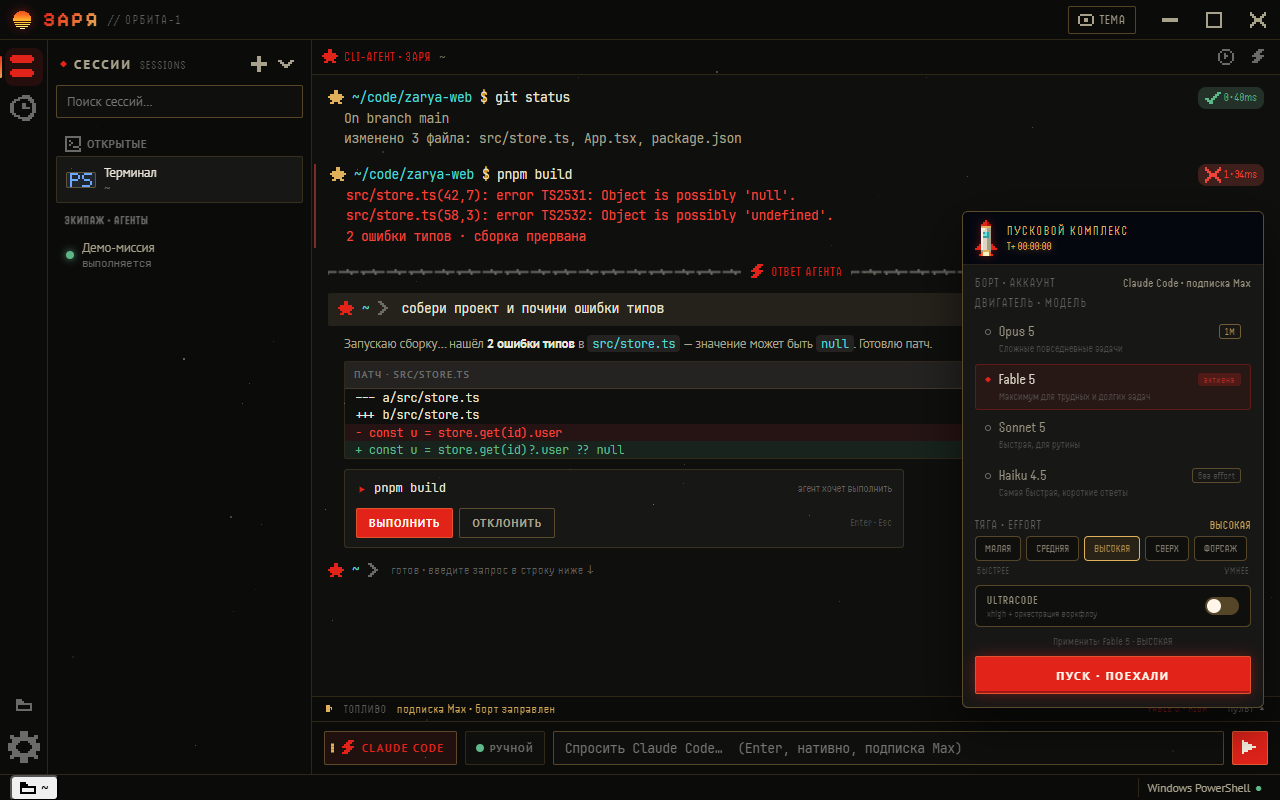
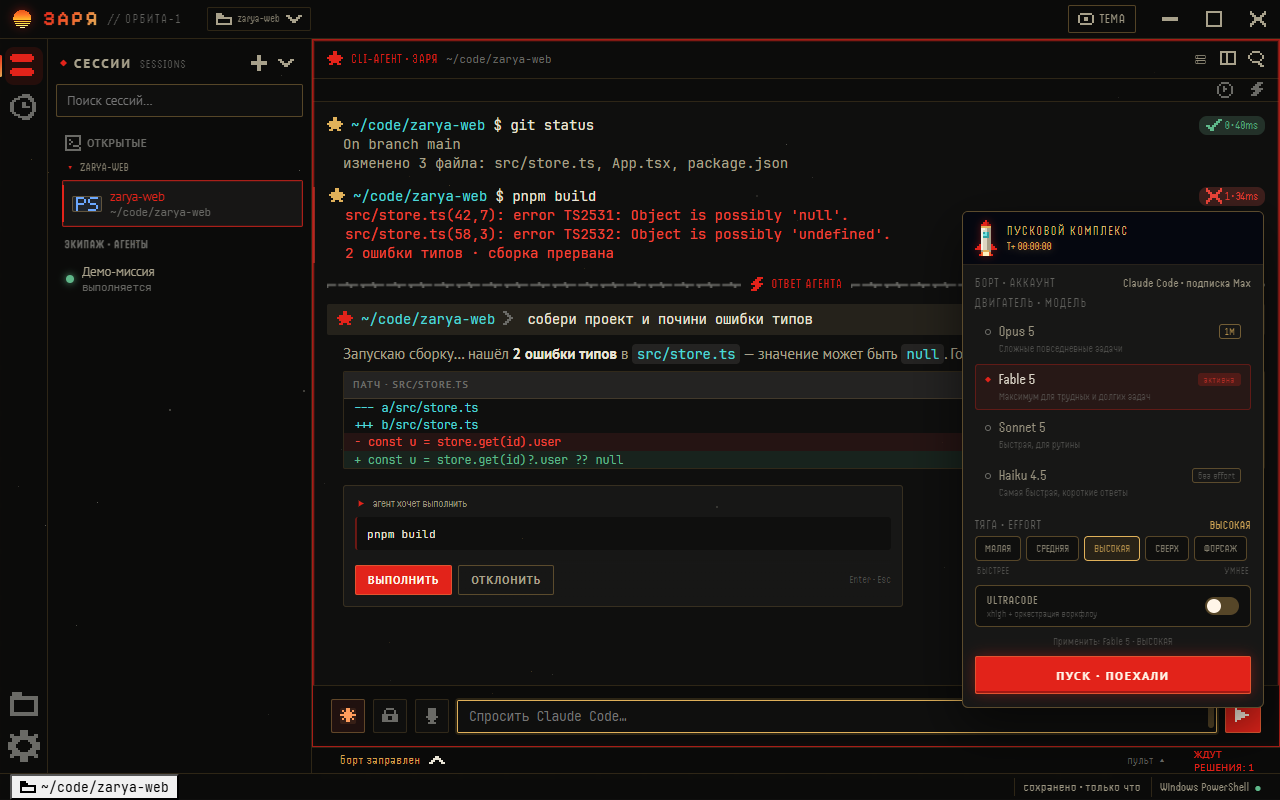
docs: README про панели — с кадром и без чужих путей
Панели — самое крупное изменение с тех пор, как README писался, а в нём о них
было ровно два слова: «splits & tabs» в разделе «прочее». Теперь есть раздел с
кадром: рабочий стол против панели, потолок в четыре, что именно у панели своё,
почему рамка не врёт, как перенести панель к нужному ребру и как вынести её в
свой стол, не убивая процесс. Отдельно появился раздел про картинки — их тоже
не было.

Снимки пересняты. Заодно закрыта утечка: в шапке панели и в кнопке проекта на
кадре стояла настоящая домашняя папка того, кто снимал, — теперь скрипт
подписывает панели нейтрально (`~/code/zarya-web`), и путь в блоке больше не
спорит с путём в шапке.

Версия в бейдже — 0.6.5 «Площадка».

Claude-Session: https://claude.ai/code/session_013NWvkSFpPF1BHK9w2ze8Ws

diff --git a/src/renderer/src/state/sessionsStore.ts b/src/renderer/src/state/sessionsStore.ts
@@ -927,6 +927,20 @@ export const useSessionsStore = create<SessionsState>((set, get) => {
 ).__zaryaMovePane = (sid, target) => useSessionsStore.getState().movePaneNextTo(sid, target)
 ;(window as unknown as { __zaryaCloseSession?: (sid: string) => Promise<void> }).__zaryaCloseSession = (sid) =>
   useSessionsStore.getState().closeSession(sid, { save: false })
+/**
+ * Снимкам для README: подписать панель нейтрально. В документации не должно
+ * быть ни чужих папок, ни личных путей — а настоящие берутся из настоящей
+ * файловой системы, какая есть на машине.
+ */
+;(
+  window as unknown as { __zaryaRenameForShot?: (sid: string, title: string, cwd: string) => void }
+).__zaryaRenameForShot = (sid, title, cwd) => {
+  useSessionsStore.setState((s) => {
+    const cur = s.sessions[sid]
+    if (!cur) return {}
+    return { sessions: { ...s.sessions, [sid]: { ...cur, title, customTitle: true, cwd } } }
+  })
+}
 
 async function restoreWorkspace(
   ws: WorkspaceState,

diff --git a/src/renderer/src/state/blocksStore.ts b/src/renderer/src/state/blocksStore.ts
@@ -1,4 +1,5 @@
 import { create } from 'zustand'
+import { useSessionsStore } from './sessionsStore'
 import type { BlockRecord } from '@shared/types'
 
 const MAX_BLOCKS_PER_SESSION = 500
@@ -72,11 +73,15 @@ export const useBlocksStore = create<BlocksState>((set, get) => ({
   }
 ).__zaryaSeedBlocks = (sessionId, count, lines) => {
   const now = Date.now()
+  // Папка — та же, что у самой панели: в снимках для README путь в блоке не
+  // должен спорить с путём в шапке.
+  const cwd = useSessionsStore.getState().sessions[sessionId]?.cwd || '~/code/project'
+  const CMDS = ['npm run build', 'git status', 'npm test -- --watch=false', 'git log --oneline -5']
   const list: BlockRecord[] = Array.from({ length: count }, (_, i) => ({
     id: `seed-${sessionId}-${i}`,
     sessionId,
-    command: `npm run build -- --seed ${i}`,
-    cwd: 'C:/Users/pesto/Desktop/project',
+    command: CMDS[i % CMDS.length],
+    cwd,
     startedAt: now - (count - i) * 1000,
     endedAt: now - (count - i) * 1000 + 400,
     exitCode: i % 7 === 0 ? 1 : 0,

diff --git a/README.md b/README.md
@@ -5,15 +5,17 @@
 **Космический CLI-агент. A new dawn for your terminal.**
 
 [![License: MIT](https://img.shields.io/badge/license-MIT-e2231a.svg)](LICENSE)
-[![Version](https://img.shields.io/badge/version-0.5.7%20%C2%AB%D0%A1%D0%BB%D0%BE%D0%B2%D0%BE%C2%BB-e0b15a.svg)](CHANGELOG.md)
+[![Version](https://img.shields.io/badge/version-0.6.5%20%C2%AB%D0%9F%D0%BB%D0%BE%D1%89%D0%B0%D0%B4%D0%BA%D0%B0%C2%BB-e0b15a.svg)](CHANGELOG.md)
 [![Electron](https://img.shields.io/badge/Electron-43-4fd6d6.svg)](https://www.electronjs.org/)
 [![Platform](https://img.shields.io/badge/platform-Windows%20%7C%20macOS%20%7C%20Linux-5fb88a.svg)](#install)
 [![PRs Welcome](https://img.shields.io/badge/PRs-welcome-e0b15a.svg)](CONTRIBUTING.md)
 
 Zarya is an AI-native terminal with a Soviet space-age soul. It runs **Claude Code
 natively** — the full agent, its tools and its permission prompts, driven straight
-from your terminal — alongside Warp-style command blocks, persistent sessions, and an
-optional built-in editor. 100% on your machine, no account, no telemetry.
+from your terminal — and gives every **pane its own agent**, so four CLIs can work
+side by side without ever sharing a conversation. Warp-style command blocks,
+persistent sessions and an optional built-in editor come along. 100% on your machine,
+no account, no telemetry.
 
 ![Zarya](docs/img/hero.png)
 
@@ -26,6 +28,12 @@ optional built-in editor. 100% on your machine, no account, no telemetry.
   approve/deny, the `AskUserQuestion` choice widget, session **resume**, and a live
   **fuel gauge** of your subscription limits — signed in with your **Max plan, no API
   key**.
+- **▦ Panes are whole CLIs** — split the window and each pane keeps its own feed, its
+  own input line, its own mode and its own autopilot. One Enter approves a tool in the
+  **framed** pane and nowhere else. The sidebar lists the panes of the active desk, so
+  you can point at one with the mouse; drag a pane by its header to move it next to
+  another (the edge you aim at lights up) or into the list to give it a desk of its own —
+  without killing the process.
 - **🚀 Пусковой комплекс** — a cosmic launch console for picking the model and
   reasoning effort, with every current Claude version, live-switchable mid-session.
 - **🎙 Диктовка — offline speech-to-text** — hold `Ctrl+Shift+Space`, speak, and the
@@ -67,6 +75,27 @@ Prefer to bring your own key? Zarya also has a **built-in provider agent** that 
 **Anthropic**, **OpenAI**, **Ollama** (local inference, incl. a remote Ollama box on your
 LAN or Tailscale) or any **OpenAI-compatible** endpoint — keys encrypted at rest, never
 sent anywhere but the provider you configured.
+
+## Panes — four CLIs in one window
+
+![Panes](docs/img/panes.png)
+
+A tab is a **desk**, a pane is a **CLI**. Up to four panes share a desk; the fifth opens
+a desk of its own, because past four the feed collapses into a strip of lines.
+
+- **Nothing is shared.** Feed, input line, mode, autopilot, attachments, input history —
+  all per pane. A full-screen program (`vim`, `htop`) takes over *its* pane only.
+- **The frame never lies.** The accented border marks the pane that receives `Enter` and
+  `Esc` — i.e. where a tool approval will land. The sidebar mirrors it: a subtle
+  background means «on screen», the accent means «in focus», and there is exactly one.
+- **Layout is a rule, not a chore.** One pane fills the desk, two-three go in columns,
+  four make a 2×2 grid. Close one and the rest re-flow — unless you dragged a divider,
+  in which case your layout is yours and stays untouched.
+- **Move or detach.** Grab a pane by its header: drop it on another pane and it docks to
+  the **edge you aim at** (the half it will take lights up first); drop it into the
+  sidebar and it leaves the grid for its own desk. The process never restarts.
+- **Desks have names.** Built from the panes («zarya-web + zarya-api +2») or your own —
+  rename with a double click.
 
 ## Пусковой комплекс — the Launch Pad
 
@@ -168,9 +197,14 @@ you opt in.
 Global, cross-session command history (`Ctrl+R`) — every command with cwd, shell and
 exit code, fuzzy-searchable across every session you've ever had.
 
+### Images
+Paste (`Ctrl+V`) or drop a picture into the bar and it attaches to **that** pane, shows
+as a chip before you send, and is scaled down to the model's limit. An engine that
+cannot read images says so out loud instead of swallowing the attachment.
+
 ### More
-Workflows (parameterized snippets), Command Palette (`Ctrl+Shift+P`), splits & tabs
-(persisted), ghost autosuggest, and a `ТЕМА` quick-cycle button.
+Workflows (parameterized snippets), Command Palette (`Ctrl+Shift+P`), tabs and panes
+(persisted across restarts), ghost autosuggest, and a `ТЕМА` quick-cycle button.
 
 ### Themes — 9, dark and light
 
@@ -201,6 +235,7 @@ Remappable in Центр управления → Клавиши (`Ctrl+,`). Ful
 | Settings | `Ctrl+,` | | Global command history | `Ctrl+R` |
 | Toggle sidebar | `Ctrl+B` | | New terminal in folder | `Ctrl+Shift+O` |
 | New / close tab | `Ctrl+Shift+T` / `Ctrl+Shift+W` | | Split right / down | `Ctrl+Shift+D` / `Ctrl+Shift+S` |
+| Close pane | `Ctrl+Shift+X` | | Focus next pane | `Alt+→` |
 | Previous / next block | `Ctrl+↑` / `Ctrl+↓` | | Find in terminal | `Ctrl+Shift+F` |
 | Dictate (hold) | `Ctrl+Shift+Space` | | New line in the bar | `Shift+Enter` |
 
